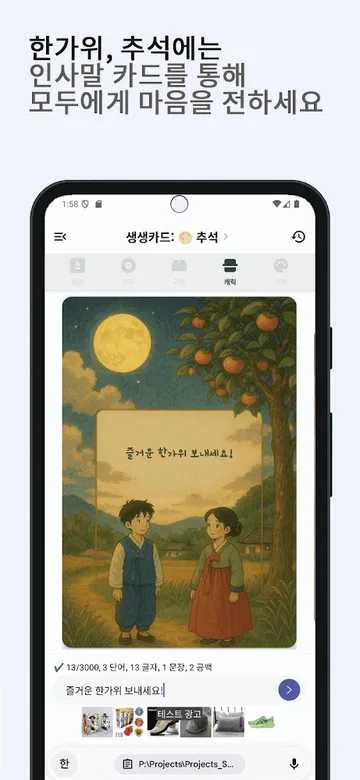
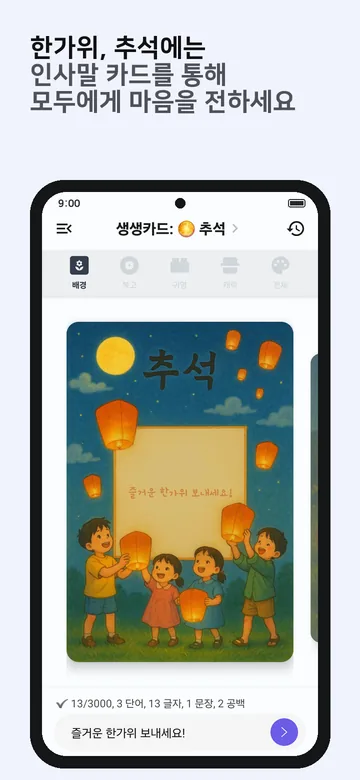
Privacy officer listed as Simpest; fresh SugarCard screenshots
- Privacy officer shown as the business name "Simpest" on every policy
  (ko/en) and in AGENTS.md
- SugarCard shots retaken on a Galaxy S21 from the Play build (1.0.002):
  no local path on the keyboard bar, no test ad, "연말" instead of the
  hidden 새해 option; app OG cards regenerated

diff --git a/en/privacy/axfamily/delete/index.html b/en/privacy/axfamily/delete/index.html
@@ -29,7 +29,7 @@
   <link rel="stylesheet" href="/assets/fonts/pretendard.css?v=73fb0dc7">
   <link rel="stylesheet" href="/assets/site.css?v=73fb0dc7">
   <link rel="stylesheet" href="/assets/sds-apps.css?v=73fb0dc7">
-  <script type="application/ld+json">{"@context":"https://schema.org","@type":"WebPage","@id":"https://mvgood21.github.io/en/privacy/axfamily/delete/","name":"AXFamily Account and Data Deletion – SugarMount","url":"https://mvgood21.github.io/en/privacy/axfamily/delete/","inLanguage":"en","isPartOf":{"@id":"https://mvgood21.github.io/#website"},"publisher":{"@id":"https://mvgood21.github.io/#org"},"dateModified":"2026-10-13T09:00:00+09:00"}</script>
+  <script type="application/ld+json">{"@context":"https://schema.org","@type":"WebPage","@id":"https://mvgood21.github.io/en/privacy/axfamily/delete/","name":"AXFamily Account and Data Deletion – SugarMount","url":"https://mvgood21.github.io/en/privacy/axfamily/delete/","inLanguage":"en","isPartOf":{"@id":"https://mvgood21.github.io/#website"},"publisher":{"@id":"https://mvgood21.github.io/#org"},"dateModified":"2026-10-18T09:00:00+09:00"}</script>
   <script type="application/ld+json">{"@context":"https://schema.org","@type":"BreadcrumbList","itemListElement":[{"@type":"ListItem","position":1,"name":"SugarMount","item":"https://mvgood21.github.io/en/"},{"@type":"ListItem","position":2,"name":"Privacy policies","item":"https://mvgood21.github.io/en/privacy/"},{"@type":"ListItem","position":3,"name":"AXFamily","item":"https://mvgood21.github.io/en/privacy/axfamily/"},{"@type":"ListItem","position":4,"name":"Delete your AXFamily account"}]}</script>
 </head>
 <body class="page-read">
@@ -142,7 +142,7 @@
 
       <section id="contact" aria-labelledby="contact-h">
         <h2 id="contact-h">10. Contact</h2>
-        <p>Privacy officer: Stephen, Jeong (simpest) · <a href="mailto:sugarmount21@gmail.com">sugarmount21@gmail.com</a><br>See the <a href="/en/privacy/axfamily/">privacy policy</a> for details.</p>
+        <p>Privacy officer: Simpest · <a href="mailto:sugarmount21@gmail.com">sugarmount21@gmail.com</a><br>See the <a href="/en/privacy/axfamily/">privacy policy</a> for details.</p>
       </section>
     </article>
 

diff --git a/privacy/axfamily/index.html b/privacy/axfamily/index.html
@@ -252,7 +252,7 @@
 
       <section id="officer" aria-labelledby="officer-h">
         <h2 id="officer-h">11. 개인정보 보호책임자와 문의</h2>
-        <p>개인정보 보호책임자: Stephen, Jeong (simpest)<br>이메일: <a href="mailto:sugarmount21@gmail.com">sugarmount21@gmail.com</a></p>
+        <p>개인정보 보호책임자: Simpest<br>이메일: <a href="mailto:sugarmount21@gmail.com">sugarmount21@gmail.com</a></p>
         <p>개인정보 침해 신고·상담은 개인정보침해신고센터(privacy.kisa.or.kr, 국번 없이 118), 개인정보분쟁조정위원회(kopico.go.kr)에도 할 수 있습니다.</p>
       </section>
 

diff --git a/privacy/sugarspeller/index.html b/privacy/sugarspeller/index.html
@@ -307,7 +307,7 @@
         <p>개인정보 처리에 관한 문의, 열람·정정·삭제·처리정지 요청은 아래 이메일로 보내 주세요.</p>
         <ul>
           <li>개발자: simpest (SugarMount)</li>
-          <li>개인정보 보호책임자: Stephen, Jeong (simpest)</li>
+          <li>개인정보 보호책임자: Simpest</li>
           <li>이메일: <a href="mailto:sugarmount21@gmail.com">sugarmount21@gmail.com</a></li>
           <li>Google Play: <a href="https://play.google.com/store/apps/details?id=com.sugarmount.sugarspeller" rel="noopener">한글 띄어쓰기 (SugarSpeller)</a></li>
         </ul>

diff --git a/privacy/axfamily/delete/index.html b/privacy/axfamily/delete/index.html
@@ -142,7 +142,7 @@
 
       <section id="contact" aria-labelledby="contact-h">
         <h2 id="contact-h">10. 문의</h2>
-        <p>개인정보 보호책임자: Stephen, Jeong (simpest) · <a href="mailto:sugarmount21@gmail.com">sugarmount21@gmail.com</a><br>자세한 내용은 <a href="/privacy/axfamily/">AXFamily 개인정보처리방침</a>을 보세요.</p>
+        <p>개인정보 보호책임자: Simpest · <a href="mailto:sugarmount21@gmail.com">sugarmount21@gmail.com</a><br>자세한 내용은 <a href="/privacy/axfamily/">AXFamily 개인정보처리방침</a>을 보세요.</p>
       </section>
     </article>
 

diff --git a/en/privacy/axfamily/index.html b/en/privacy/axfamily/index.html
@@ -252,7 +252,7 @@
 
       <section id="officer" aria-labelledby="officer-h">
         <h2 id="officer-h">11. Privacy officer and contact</h2>
-        <p>Privacy officer: Stephen, Jeong (simpest)<br>Email: <a href="mailto:sugarmount21@gmail.com">sugarmount21@gmail.com</a></p>
+        <p>Privacy officer: Simpest<br>Email: <a href="mailto:sugarmount21@gmail.com">sugarmount21@gmail.com</a></p>
         <p>You can also contact the Korea Internet &amp; Security Agency's Privacy Infringement Report Center (privacy.kisa.or.kr) or the Personal Information Dispute Mediation Committee (kopico.go.kr).</p>
       </section>
 

diff --git a/privacy/sugaralbum/index.html b/privacy/sugaralbum/index.html
@@ -252,7 +252,7 @@
         <p>개인정보 처리에 관한 문의, 열람·삭제 요청은 아래 이메일로 보내 주세요.</p>
         <ul>
           <li>개발자: simpest (SugarMount)</li>
-          <li>개인정보 보호책임자: Stephen, Jeong (simpest)</li>
+          <li>개인정보 보호책임자: Simpest</li>
           <li>이메일: <a href="mailto:sugarmount21@gmail.com">sugarmount21@gmail.com</a></li>
           <li>Google Play: <a href="https://play.google.com/store/apps/details?id=com.sugarmount.sugaralbum" rel="noopener">쉬운 동영상 만들기 - 슈가앨범</a></li>
         </ul>

diff --git a/privacy/sugarclip/index.html b/privacy/sugarclip/index.html
@@ -255,7 +255,7 @@
         <p>개인정보 처리에 관한 문의, 열람·삭제 요청은 아래 이메일로 보내 주세요.</p>
         <ul>
           <li>개발자: simpest (SugarMount)</li>
-          <li>개인정보 보호책임자: Stephen, Jeong (simpest)</li>
+          <li>개인정보 보호책임자: Simpest</li>
           <li>이메일: <a href="mailto:sugarmount21@gmail.com">sugarmount21@gmail.com</a></li>
           <li>Google Play: <a href="https://play.google.com/store/apps/details?id=com.sugarmount.sugarclip" rel="noopener">SugarClip - 모든 복사 공유</a></li>
         </ul>

diff --git a/en/privacy/sugarspeller/index.html b/en/privacy/sugarspeller/index.html
@@ -307,7 +307,7 @@
         <p>For questions about data handling, or to request access, correction, deletion or suspension of processing, please email us.</p>
         <ul>
           <li>Developer: simpest (SugarMount)</li>
-          <li>Privacy officer: Stephen, Jeong (simpest)</li>
+          <li>Privacy officer: Simpest</li>
           <li>Email: <a href="mailto:sugarmount21@gmail.com">sugarmount21@gmail.com</a></li>
           <li>Google Play: <a href="https://play.google.com/store/apps/details?id=com.sugarmount.sugarspeller" rel="noopener">Hangul Checker (SugarSpeller)</a></li>
         </ul>

diff --git a/privacy/sugarcard/index.html b/privacy/sugarcard/index.html
@@ -271,7 +271,7 @@
         <p>개인정보 처리에 관한 문의, 열람·삭제 요청은 아래 이메일로 보내 주세요.</p>
         <ul>
           <li>개발자: simpest (SugarMount)</li>
-          <li>개인정보 보호책임자: Stephen, Jeong (simpest)</li>
+          <li>개인정보 보호책임자: Simpest</li>
           <li>이메일: <a href="mailto:sugarmount21@gmail.com">sugarmount21@gmail.com</a></li>
           <li>Google Play: <a href="https://play.google.com/store/apps/details?id=com.sugarmount.sugarcard" rel="noopener">생생카드 (SugarCard)</a></li>
         </ul>

diff --git a/privacy/doc-viewer/index.html b/privacy/doc-viewer/index.html
@@ -295,7 +295,7 @@
         <p>개인정보 처리에 관한 문의, 열람·정정·삭제·처리정지 요청은 아래 이메일로 보내 주세요.</p>
         <ul>
           <li>개발자: simpest (SugarMount)</li>
-          <li>개인정보 보호책임자: Stephen, Jeong (simpest)</li>
+          <li>개인정보 보호책임자: Simpest</li>
           <li>이메일: <a href="mailto:sugarmount21@gmail.com">sugarmount21@gmail.com</a></li>
           <li>앱 소개 페이지: <a href="/apps/doc-viewer/">https://mvgood21.github.io/apps/doc-viewer/</a></li>
         </ul>

diff --git a/en/privacy/sugarclip/index.html b/en/privacy/sugarclip/index.html
@@ -255,7 +255,7 @@
         <p>For questions about data handling, or to request access or deletion, please email us.</p>
         <ul>
           <li>Developer: simpest (SugarMount)</li>
-          <li>Privacy officer: Stephen, Jeong (simpest)</li>
+          <li>Privacy officer: Simpest</li>
           <li>Email: <a href="mailto:sugarmount21@gmail.com">sugarmount21@gmail.com</a></li>
           <li>Google Play: <a href="https://play.google.com/store/apps/details?id=com.sugarmount.sugarclip" rel="noopener">SugarClip - Share Anything You Copy</a></li>
         </ul>

diff --git a/en/privacy/sugaralbum/index.html b/en/privacy/sugaralbum/index.html
@@ -252,7 +252,7 @@
         <p>For questions about data handling, or to request access or deletion, please email us.</p>
         <ul>
           <li>Developer: simpest (SugarMount)</li>
-          <li>Privacy officer: Stephen, Jeong (simpest)</li>
+          <li>Privacy officer: Simpest</li>
           <li>Email: <a href="mailto:sugarmount21@gmail.com">sugarmount21@gmail.com</a></li>
           <li>Google Play: <a href="https://play.google.com/store/apps/details?id=com.sugarmount.sugaralbum" rel="noopener">Easy Video Maker - SugarAlbum</a></li>
         </ul>
